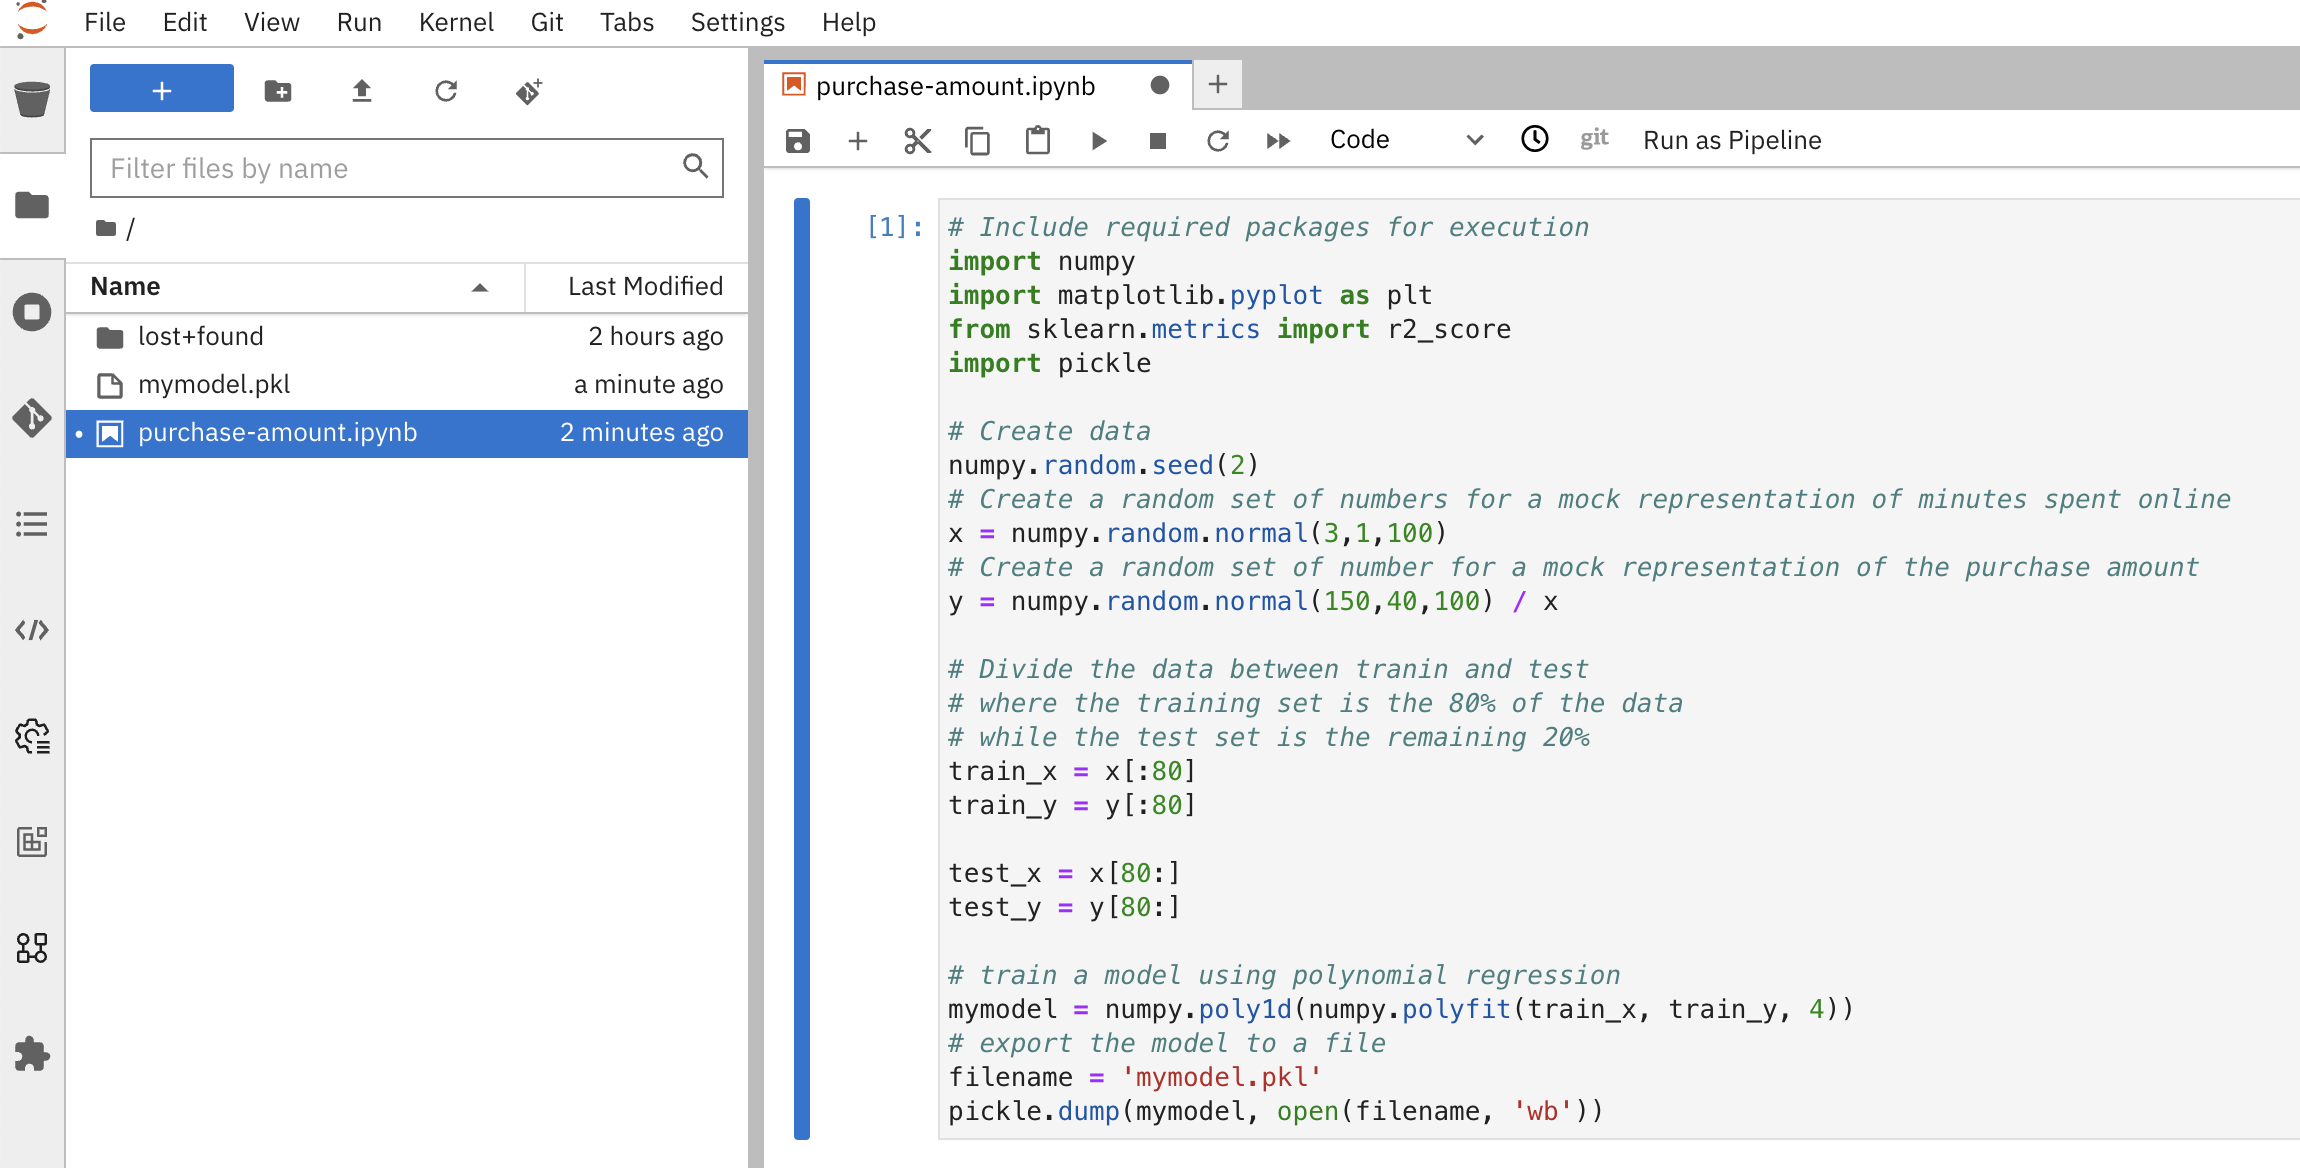
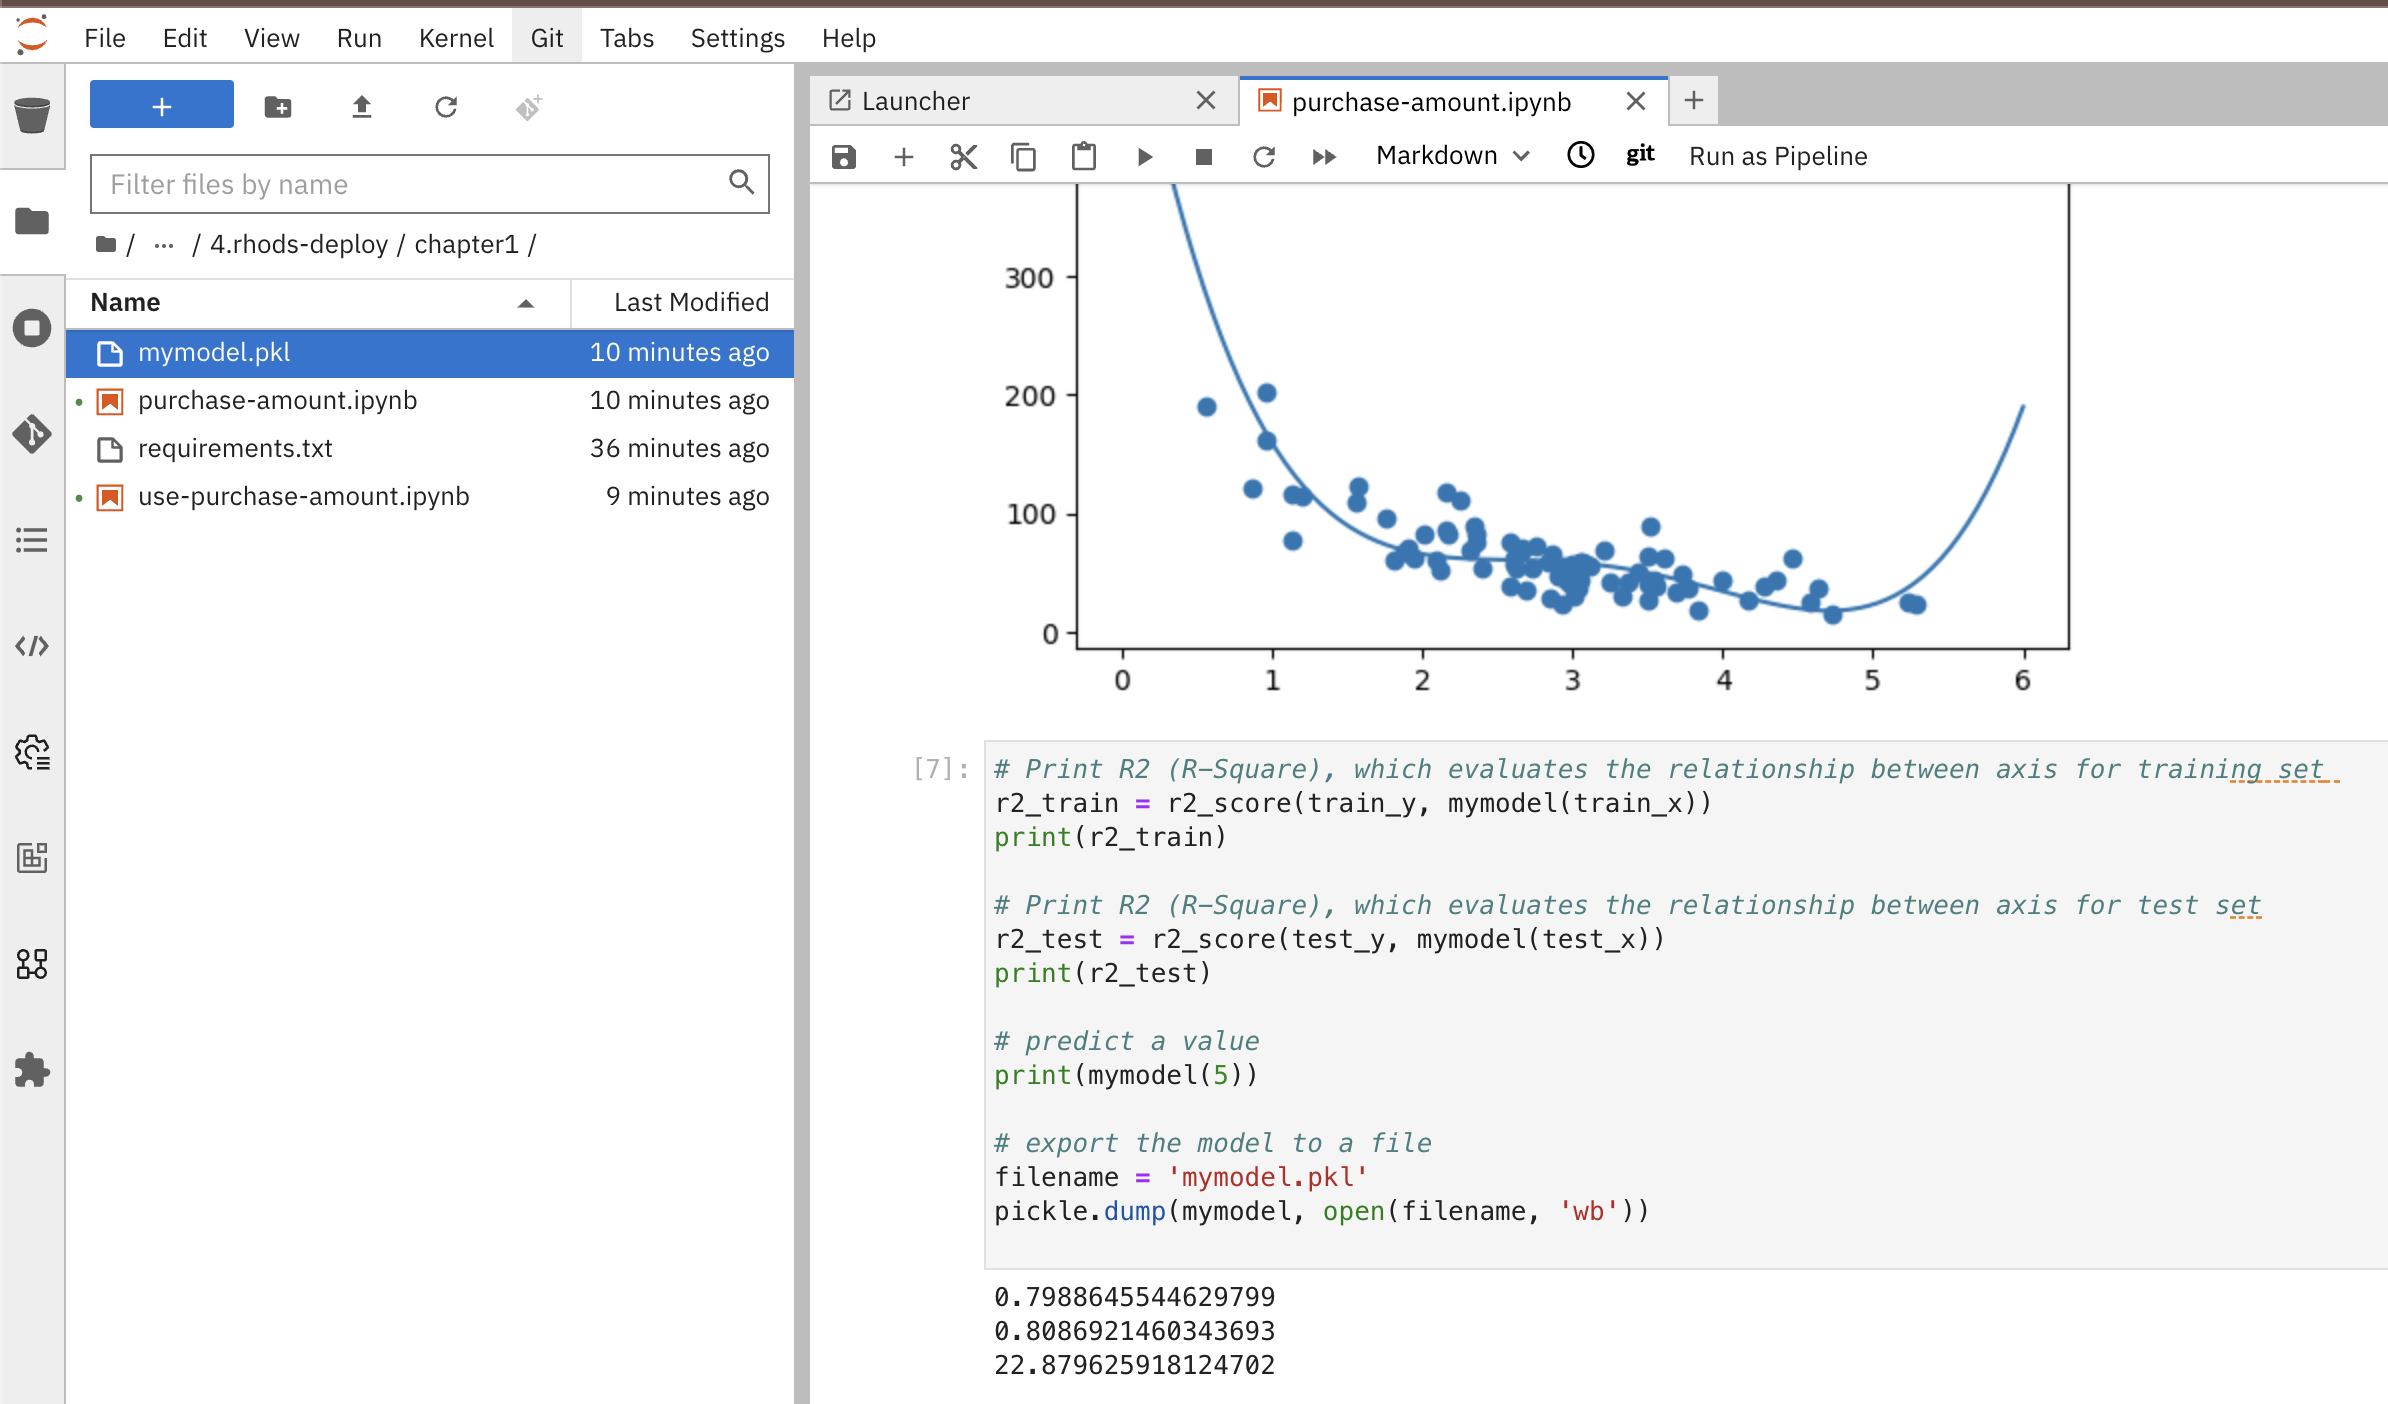
Deploy preview for PR 3 🛫

diff --git a/pr-preview/pr-3/rhods-deploy/1.33/chapter1/section1.html b/pr-preview/pr-3/rhods-deploy/1.33/chapter1/section1.html
@@ -175,20 +175,23 @@ Then, open the workbench to go to the JuypterLab interface.</p>
 </div>
 </li>
 <li>
+<p>Import following repostitory to the workbench: <a href="https://github.com/RedHatQuickCourses/rhods-qc-apps.git" class="bare">https://github.com/RedHatQuickCourses/rhods-qc-apps.git</a></p>
+</li>
+<li>
 <p>Make sure that the workbench environment serves the required python packages for the notebook to run, for this to happen, open a terminal and run the following command to verify that the packages are already installed:</p>
 <div class="listingblock">
 <div class="content">
-<pre class="highlightjs highlight"><code class="language-shell hljs" data-lang="shell">  pip install numpy matplotlib scikit-learn</code></pre>
+<pre class="highlightjs highlight"><code class="language-shell hljs" data-lang="shell">  pip install -r /opt/app-root/src/rhods-qc-apps/4.rhods-deploy/chapter1/requirements.txt</code></pre>
 </div>
 </div>
 <div class="imageblock">
 <div class="content">
-<img src="_images/terminal-install.png" alt="Install packages">
+<img src="_images/terminal-install.png" alt="terminal install">
 </div>
 </div>
 </li>
 <li>
-<p>In <strong>JupyterLab</strong>, create a new notebook, and name it <strong>purchase-amount</strong>.</p>
+<p>Open the notebook <strong>purchase-amount</strong> from the <strong>rhods-qc-apps/4.rhods-deploy/chapter1/purchase-amount.ipynb</strong> directory:</p>
 <div class="imageblock">
 <div class="content">
 <img src="_images/purchase-amount-notebook.png" alt="purchase-amount notebook">
@@ -196,42 +199,7 @@ Then, open the workbench to go to the JuypterLab interface.</p>
 </div>
 </li>
 <li>
-<p>Use the following code to train and export a model that predicts the amount of a pruchase given the number of minutes to make such purchase in a website.</p>
-<div class="listingblock">
-<div class="content">
-<pre class="highlightjs highlight"><code class="language-python hljs" data-lang="python"># Include required packages for execution
-import numpy
-import matplotlib.pyplot as plt
-from sklearn.metrics import r2_score
-import pickle
-
-# Create data
-numpy.random.seed(2)
-# Create a random set of numbers for a mock representation of minutes spent online
-x = numpy.random.normal(3,1,100)
-# Create a random set of number for a mock representation of the purchase amount
-y = numpy.random.normal(150,40,100) / x
-
-# Divide the data between tranin and test
-# where the training set is the 80% of the data
-# while the test set is the remaining 20%
-train_x = x[:80]
-train_y = y[:80]
-
-test_x = x[80:]
-test_y = y[80:]
-
-# train a model using polynomial regression
-# The number 4 here represents a hyperparameter
-mymodel = numpy.poly1d(numpy.polyfit(train_x, train_y, 4))
-# export the model to a file
-filename = 'mymodel.pkl'
-pickle.dump(mymodel, open(filename, 'wb'))</code></pre>
-</div>
-</div>
-</li>
-<li>
-<p>Notice the creation of a new file in your environment, the <code>mymodel.pkl</code></p>
+<p>Run the notebook, and notice the creation of a new file in your environment, the <code>mymodel.pkl</code></p>
 <div class="imageblock">
 <div class="content">
 <img src="_images/mymodel-pkl.png" alt="Model file export">
@@ -290,7 +258,7 @@ pickle.dump(mymodel, open(filename, 'wb'))</code></pre>
 <div class="olist arabic">
 <ol class="arabic">
 <li>
-<p>Create a notebook called <strong>use-purchase-amount</strong></p>
+<p>Open the notebook <strong>use-purchase-amount</strong> from the <strong>rhods-qc-apps/4.rhods-deploy/chapter1/use-purchase-amount.ipynb</strong> directory:</p>
 <div class="imageblock">
 <div class="content">
 <img src="_images/use-purchase-amount-notebook.png" alt="use-purchase-amount notebook create">
@@ -298,24 +266,16 @@ pickle.dump(mymodel, open(filename, 'wb'))</code></pre>
 </div>
 </li>
 <li>
-<p>Use the following code to instantiate the model and request for a prediction</p>
-<div class="listingblock">
-<div class="content">
-<pre class="highlightjs highlight"><code class="language-python hljs" data-lang="python"># Include required packages for execution
-import pickle
-
-# Load models
-with open('mymodel.pkl', 'rb') as f:
-    model = pickle.load(f)
-
-# perform a prediction using the model
-print(model(4))</code></pre>
-</div>
-</div>
-<div class="imageblock">
-<div class="content">
-<img src="_images/prediction-with-model.png" alt="prediction with model">
-</div>
+<p>Run the <strong>use-purchase-amount</strong> notebook and notice the result:</p>
+<div class="ulist">
+<ul>
+<li>
+<p>You can get the same result without training the model again.</p>
+</li>
+<li>
+<p>You are not training the model in the <strong>user-purchase-amount</strong> notebook, you are re-using the output from the training notebook, and using the generated model to generate an inference.</p>
+</li>
+</ul>
 </div>
 </li>
 </ol>
